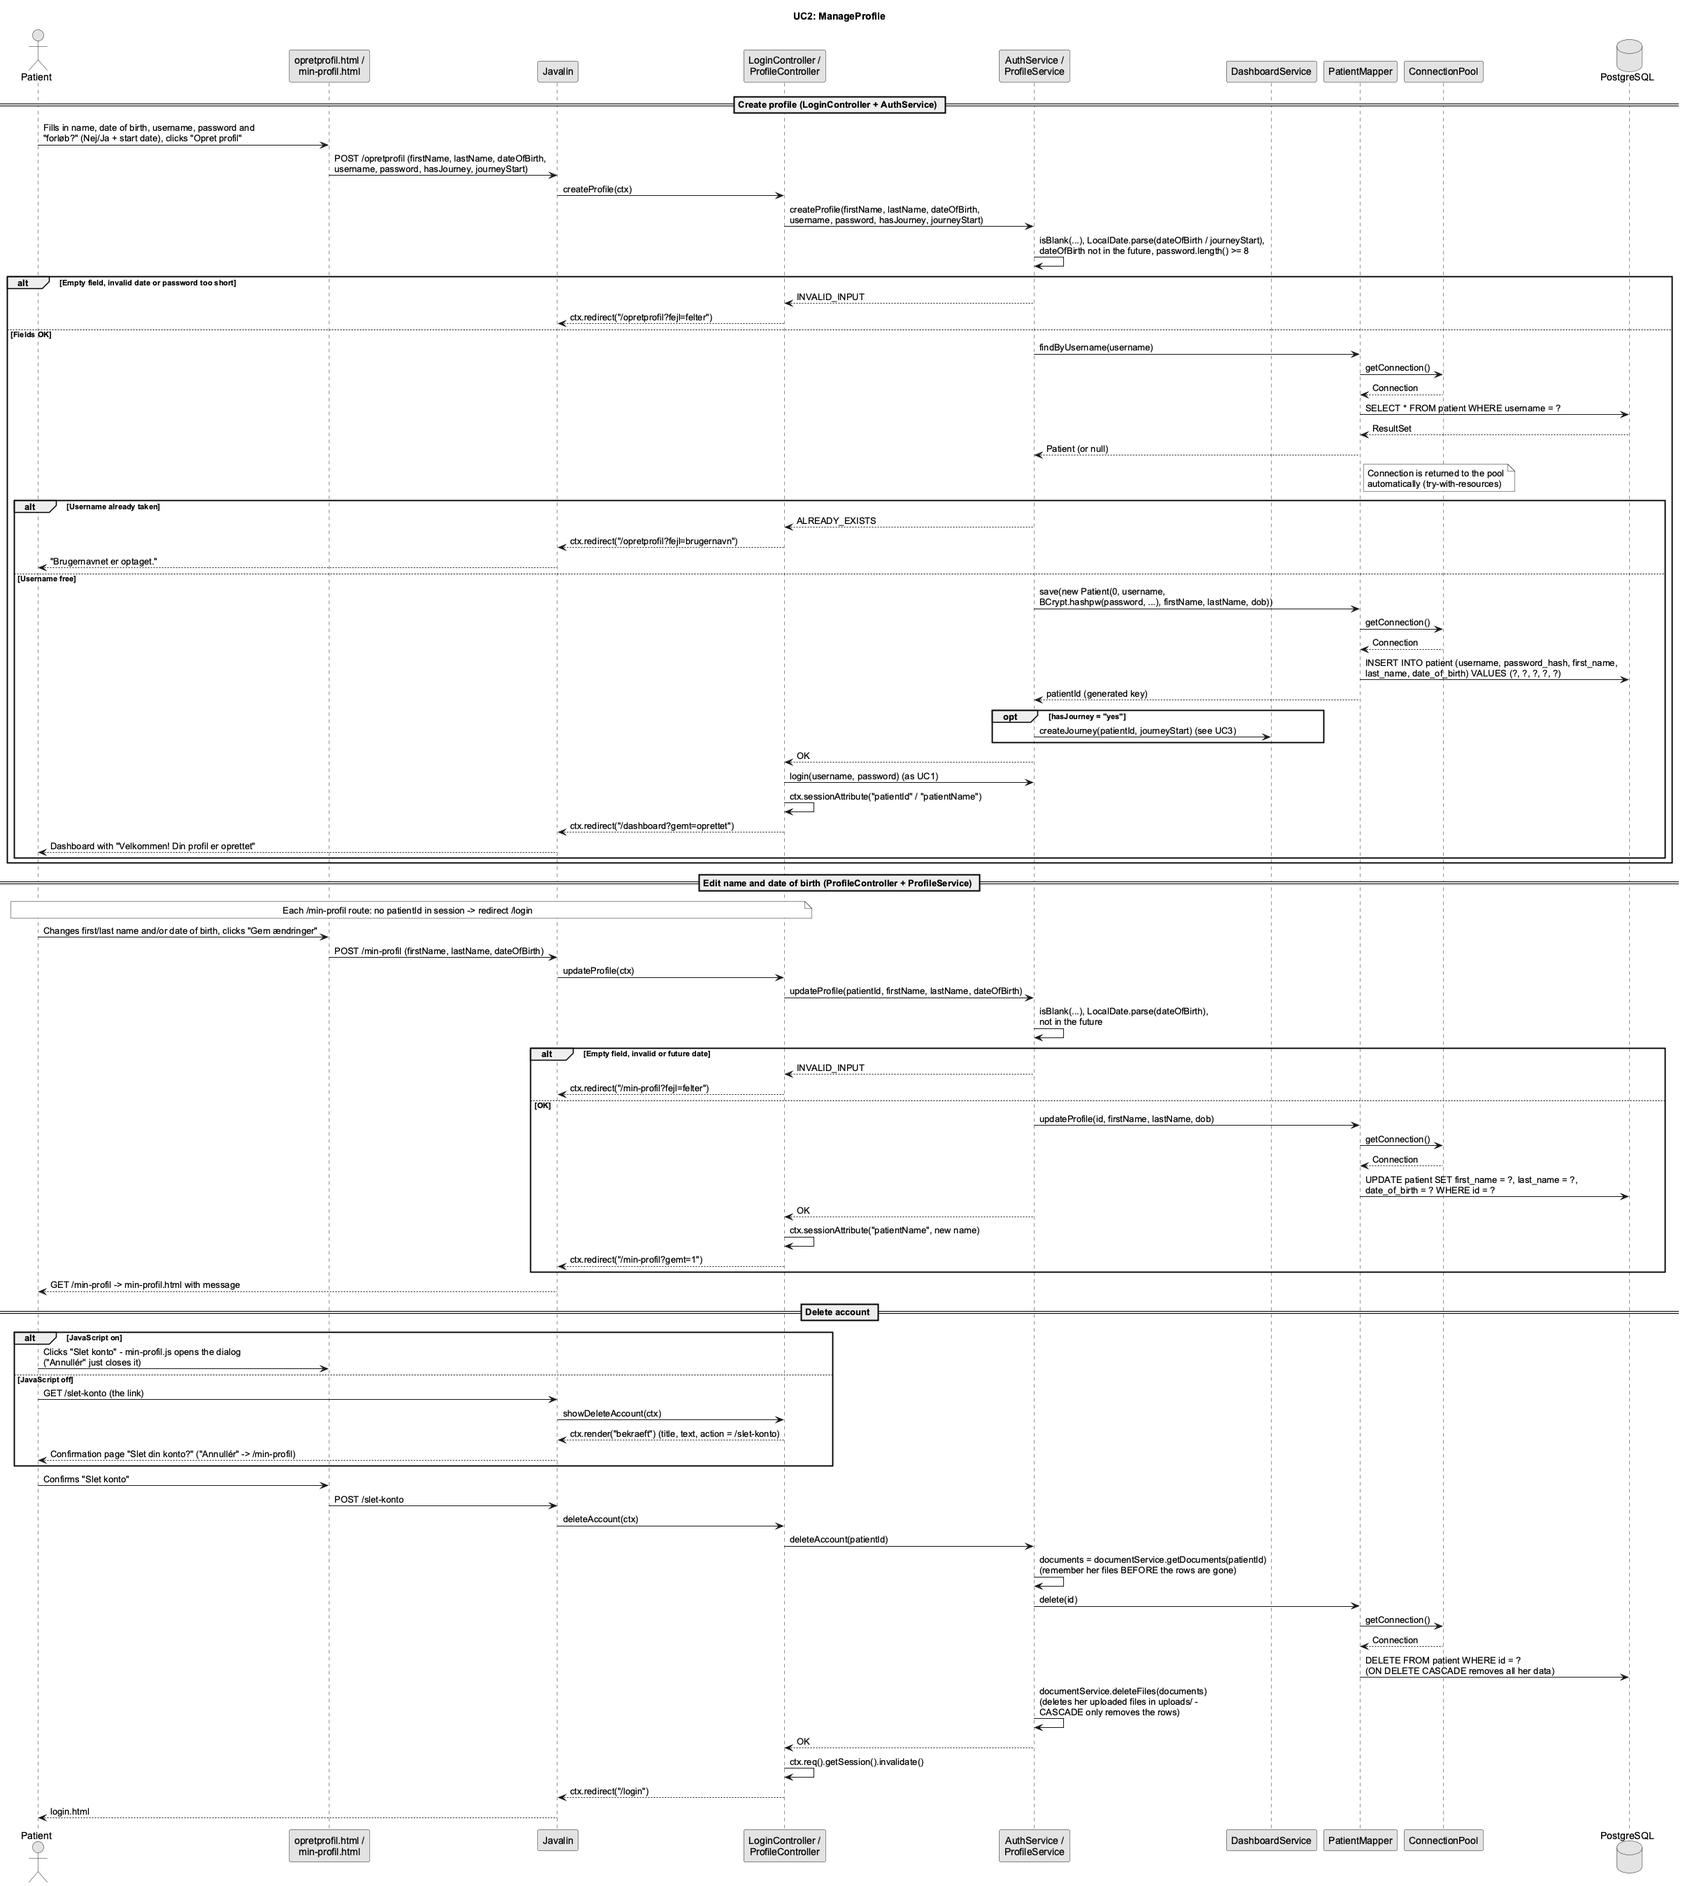
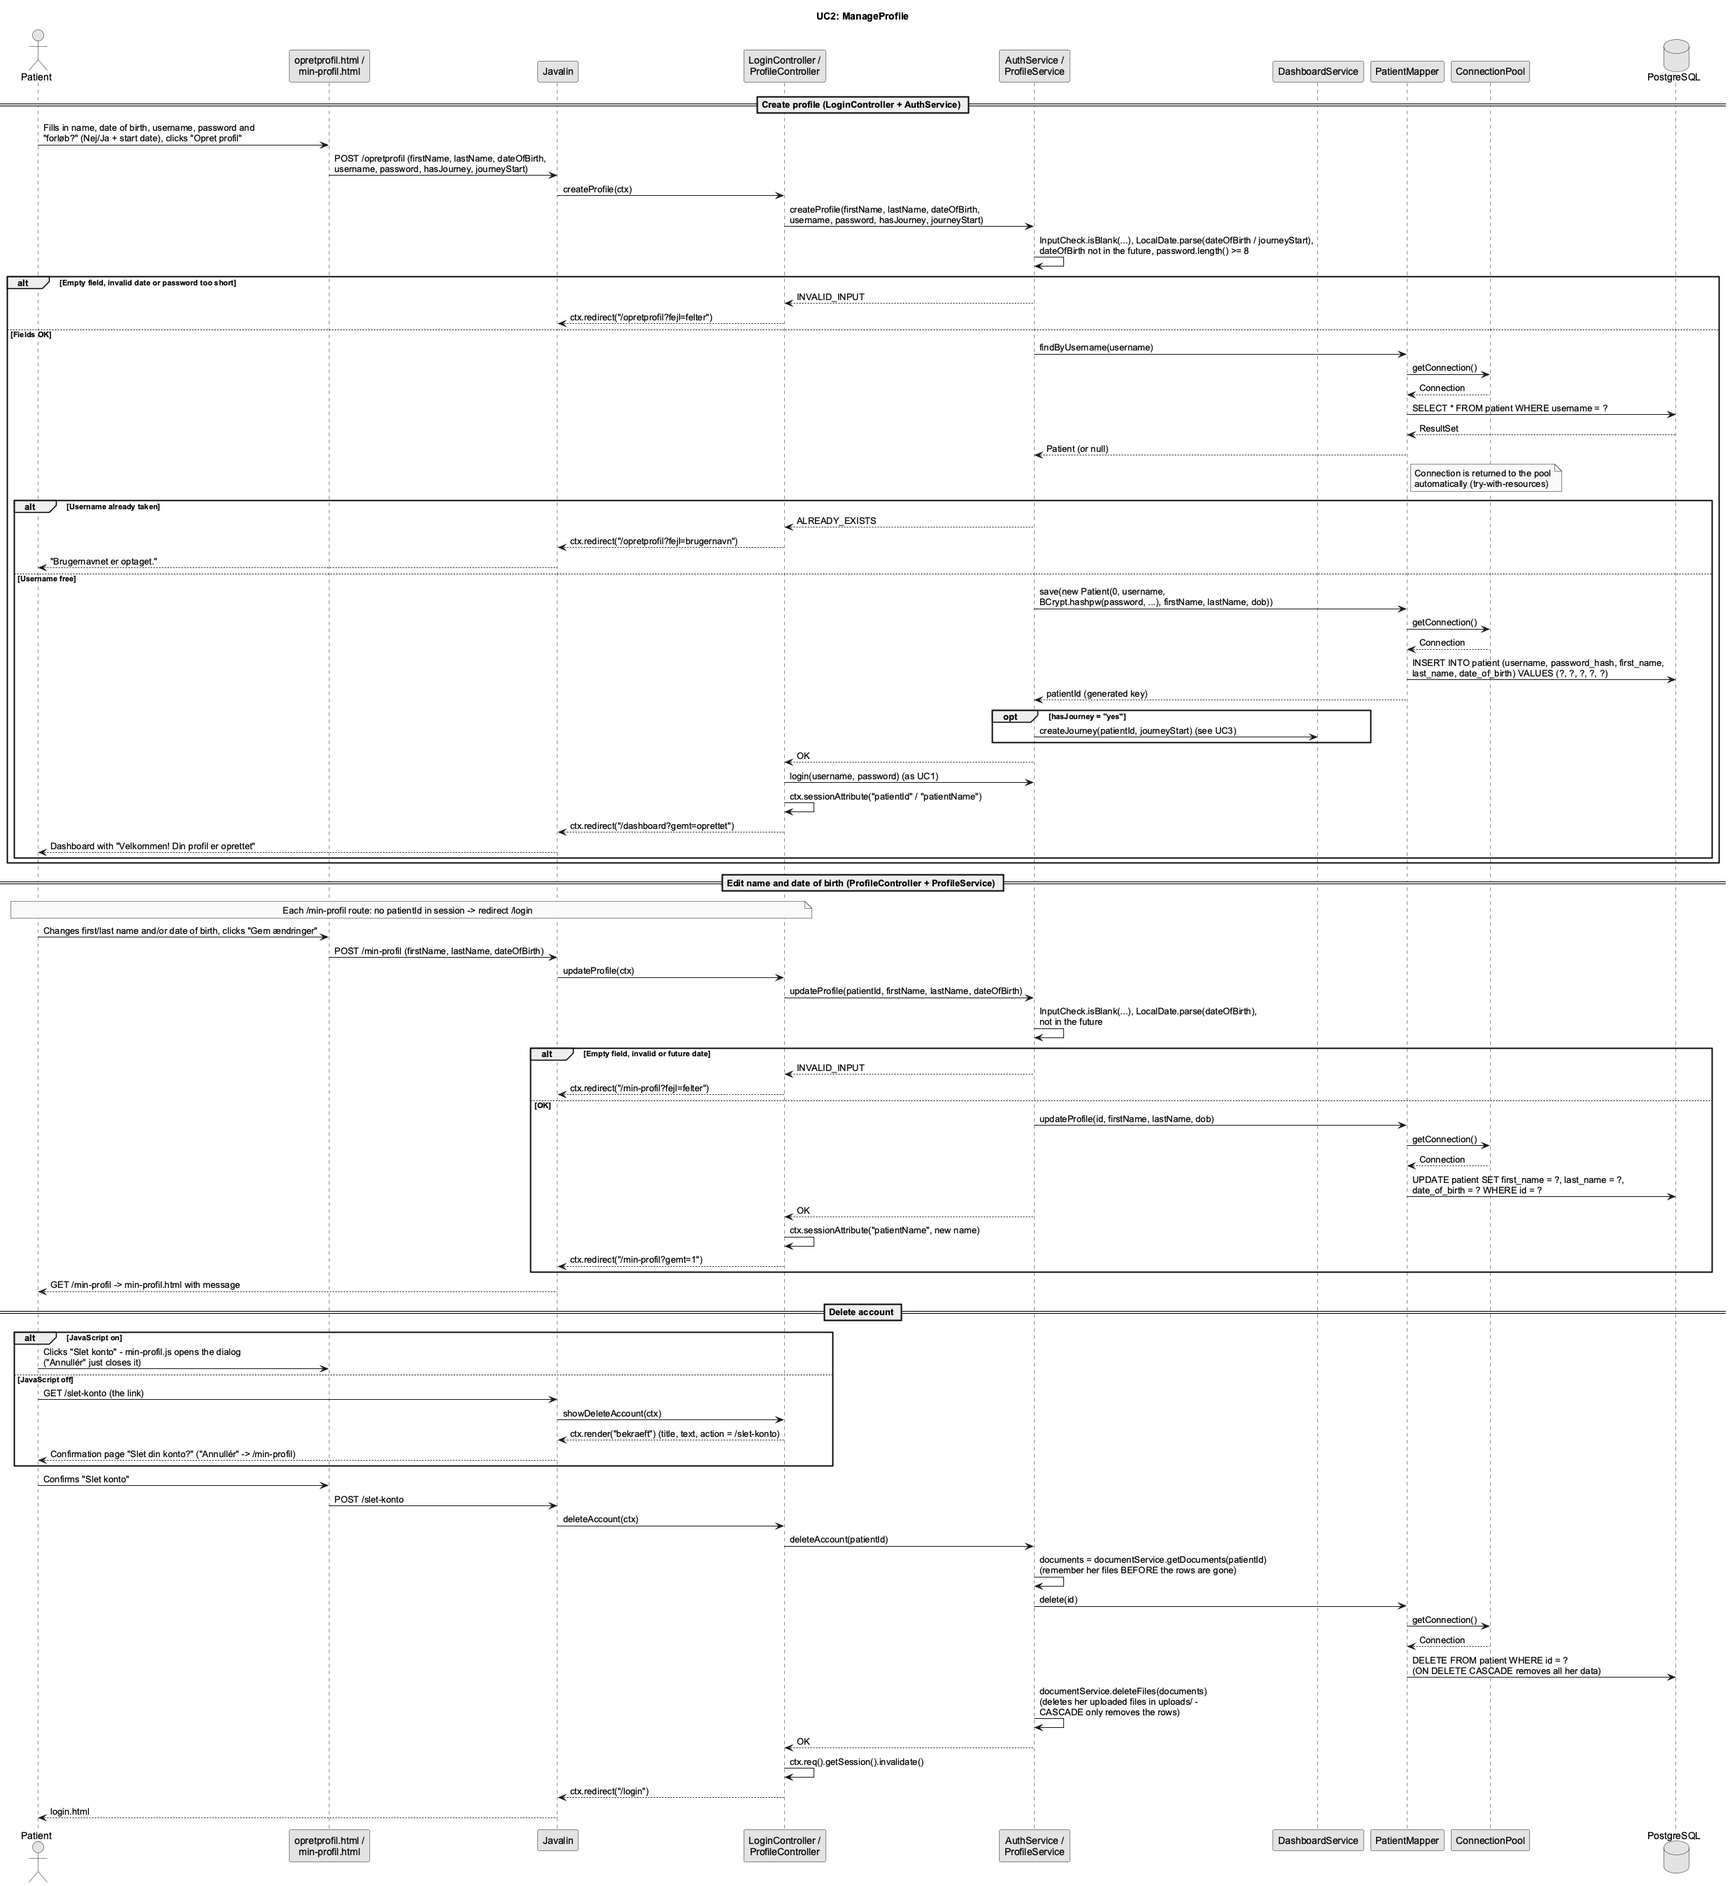
refaktorering

diff --git a/src/main/java/services/AuthService.java b/src/main/java/services/AuthService.java
@@ -29,7 +29,7 @@ public class AuthService {
     // Login: giver patientens id tilbage (det er det, sessionen skal huske) – ellers kastes UserNotFoundException
     public Patient login(String username, String password) throws UserNotFoundException {
         // regel: begge felter skal være udfyldt (BCrypt kan ikke tjekke et kodeord, der er null)
-        if (isBlank(username) || isBlank(password)) {
+        if (InputCheck.isBlank(username) || InputCheck.isBlank(password)) {
             throw new UserNotFoundException("Forkert brugernavn eller adgangskode");
         }
 
@@ -49,7 +49,7 @@ public class AuthService {
     public ServiceResult createProfile(String firstName, String lastName, String dateOfBirth, String username, String password, String hasJourney, String journeyStart) {
 
         // 0. regel: ingen tomme felter
-        if (isBlank(firstName) || isBlank(lastName) || isBlank(dateOfBirth) || isBlank(username) || isBlank(password)) {
+        if (InputCheck.isBlank(firstName) || InputCheck.isBlank(lastName) || InputCheck.isBlank(dateOfBirth) || InputCheck.isBlank(username) || InputCheck.isBlank(password)) {
             return ServiceResult.INVALID_INPUT;
         }
 
@@ -57,7 +57,7 @@ public class AuthService {
         username = username.trim();
 
         // 0a. regel: teksten skal kunne være i kolonnerne (VARCHAR(50) – se schema_postgres.sql)
-        if (isTooLong(firstName, 50) || isTooLong(lastName, 50) || isTooLong(username, 50)) {
+        if (InputCheck.isTooLong(firstName, 50) || InputCheck.isTooLong(lastName, 50) || InputCheck.isTooLong(username, 50)) {
             return ServiceResult.INVALID_INPUT;
         }
 
@@ -82,7 +82,7 @@ public class AuthService {
         //     (tjekkes HER, før vi gemmer noget – ellers ville kontoen være oprettet, men forløbet fejle)
         boolean wantsJourney = "yes".equals(hasJourney);
         if (wantsJourney) {
-            if (isBlank(journeyStart)) {
+            if (InputCheck.isBlank(journeyStart)) {
                 return ServiceResult.INVALID_INPUT;
             }
             LocalDate start;
@@ -131,15 +131,5 @@ public class AuthService {
         } catch (IllegalArgumentException | StringIndexOutOfBoundsException e) {
             return false;
         }
-    }
-
-    // hjælper: null eller kun mellemrum tæller som tomt (samme som i de andre services)
-    private boolean isBlank(String s) {
-        return s == null || s.isBlank();
-    }
-
-    // lille hjælper: længere end kolonnen i databasen (VARCHAR(max))? Så ville INSERT fejle med en 500-fejl
-    private boolean isTooLong(String s, int max) {
-        return s != null && s.length() > max;
     }
 }

diff --git a/src/main/java/services/ProfileService.java b/src/main/java/services/ProfileService.java
@@ -28,11 +28,11 @@ public class ProfileService {
     // Retter patientens navn og fødselsdato (US6b AC1)
     public ServiceResult updateProfile(int patientId, String firstName, String lastName, String dateOfBirth) {
         // 1. regel: ingen tomme felter
-        if (isBlank(firstName) || isBlank(lastName) || isBlank(dateOfBirth)) {
+        if (InputCheck.isBlank(firstName) || InputCheck.isBlank(lastName) || InputCheck.isBlank(dateOfBirth)) {
             return ServiceResult.INVALID_INPUT;
         }
         // navnene skal kunne være i kolonnerne (VARCHAR(50))
-        if (isTooLong(firstName, 50) || isTooLong(lastName, 50)) {
+        if (InputCheck.isTooLong(firstName, 50) || InputCheck.isTooLong(lastName, 50)) {
             return ServiceResult.INVALID_INPUT;
         }
 
@@ -57,7 +57,7 @@ public class ProfileService {
     // Skifter kodeord. Alle tjek giver INVALID_INPUT, så man ikke afslører hvad der var galt
     public ServiceResult changePassword(int patientId, String currentPassword, String newPassword, String repeat) {
         // 1. regel: ingen tomme felter
-        if (isBlank(currentPassword) || isBlank(newPassword) || isBlank(repeat)) {
+        if (InputCheck.isBlank(currentPassword) || InputCheck.isBlank(newPassword) || InputCheck.isBlank(repeat)) {
             return ServiceResult.INVALID_INPUT;
         }
 
@@ -103,15 +103,5 @@ public class ProfileService {
 
         // 3. gik godt
         return ServiceResult.OK;
-    }
-
-    // hjælper: null eller kun mellemrum tæller som tomt (samme som i de andre services)
-    private boolean isBlank(String s) {
-        return s == null || s.isBlank();
-    }
-
-    // lille hjælper: længere end kolonnen i databasen (VARCHAR(max))? Så ville INSERT fejle med en 500-fejl
-    private boolean isTooLong(String s, int max) {
-        return s != null && s.length() > max;
     }
 }

diff --git a/src/main/java/services/DiagnosisService.java b/src/main/java/services/DiagnosisService.java
@@ -17,16 +17,16 @@ public class DiagnosisService {
 
     public ServiceResult addDiagnosis(int patientId, String name, String description) {
         // 1. regel: en diagnose skal have et navn (serveren stoler ikke på required i HTML)
-        if (isBlank(name)) {
+        if (InputCheck.isBlank(name)) {
             return ServiceResult.INVALID_INPUT;
         }
         // navnet skal kunne være i kolonnen (VARCHAR(100))
-        if (isTooLong(name, 100)) {
+        if (InputCheck.isTooLong(name, 100)) {
             return ServiceResult.INVALID_INPUT;
         }
 
         // 2. beskrivelsen er valgfri – tom tekst gemmes som null, så databasen ikke fyldes med ""
-        String desc = isBlank(description) ? null : description.trim();
+        String desc = InputCheck.isBlank(description) ? null : description.trim();
 
         // 3. byg kortet og gem – diagnosen hænger direkte på patienten (patient_id). trim = mellemrum før/efter fjernes
         Diagnosis diagnosis = new Diagnosis(0, patientId, name.trim(), desc);
@@ -44,15 +44,5 @@ public class DiagnosisService {
     // Svar: OK · NOT_FOUND = findes ikke / ikke hendes. Samme mønster som DiaryService.deleteEntry
     public ServiceResult deleteDiagnosis(int patientId, int diagnosisId) {
         return diagnosisMapper.delete(diagnosisId, patientId) ? ServiceResult.OK : ServiceResult.NOT_FOUND;
-    }
-
-    // lille hjælper: null eller kun mellemrum tæller som tomt
-    private boolean isBlank(String s) {
-        return s == null || s.isBlank();
-    }
-
-    // lille hjælper: længere end kolonnen i databasen (VARCHAR(max))? Så ville INSERT fejle med en 500-fejl
-    private boolean isTooLong(String s, int max) {
-        return s != null && s.length() > max;
     }
 }

diff --git a/src/main/java/services/DiaryService.java b/src/main/java/services/DiaryService.java
@@ -23,11 +23,11 @@ public class DiaryService {
     // Gemmer én note på patienten
     public ServiceResult saveEntry(int patientId, String date, String title, String note) {
         // 0. regel: dato, titel og note skal være udfyldt (serveren stoler ikke på required i HTML)
-        if (isBlank(date) || isBlank(title) || isBlank(note)) {
+        if (InputCheck.isBlank(date) || InputCheck.isBlank(title) || InputCheck.isBlank(note)) {
             return ServiceResult.INVALID_INPUT;
         }
         // titlen skal kunne være i kolonnen (VARCHAR(100))
-        if (isTooLong(title, 100)) {
+        if (InputCheck.isTooLong(title, 100)) {
             return ServiceResult.INVALID_INPUT;
         }
 
@@ -55,15 +55,5 @@ public class DiaryService {
     // Svar: OK · NOT_FOUND = findes ikke / ikke hendes (så blev 0 rækker slettet)
     public ServiceResult deleteEntry(int patientId, int entryId) {
         return diaryEntryMapper.delete(entryId, patientId) ? ServiceResult.OK : ServiceResult.NOT_FOUND;
-    }
-
-    // lille hjælper: null eller kun mellemrum tæller som tomt
-    private boolean isBlank(String s) {
-        return s == null || s.isBlank();
-    }
-
-    // lille hjælper: længere end kolonnen i databasen (VARCHAR(max))? Så ville INSERT fejle med en 500-fejl
-    private boolean isTooLong(String s, int max) {
-        return s != null && s.length() > max;
     }
 }

diff --git a/src/main/java/services/DocumentService.java b/src/main/java/services/DocumentService.java
@@ -34,11 +34,11 @@ public class DocumentService {
                                         String originalFileName, InputStream fileContent, long fileSize) {
 
         // 1. regel: titel, type og fil skal være udfyldt
-        if (isBlank(title) || isBlank(type) || isBlank(originalFileName) || fileContent == null) {
+        if (InputCheck.isBlank(title) || InputCheck.isBlank(type) || InputCheck.isBlank(originalFileName) || fileContent == null) {
             return ServiceResult.INVALID_INPUT;
         }
         // titlen skal kunne være i kolonnen (VARCHAR(100))
-        if (isTooLong(title, 100)) {
+        if (InputCheck.isTooLong(title, 100)) {
             return ServiceResult.INVALID_INPUT;
         }
 
@@ -130,14 +130,5 @@ public class DocumentService {
             // filen kunne ikke slettes (fx låst) – rækken er allerede væk, så patienten ser den ikke mere
             System.err.println("Kunne ikke slette filen " + filePath + ": " + e.getMessage());
         }
-    }
-
-    private boolean isBlank(String s) {
-        return s == null || s.isBlank();
-    }
-
-    // lille hjælper: længere end kolonnen i databasen (VARCHAR(max))? Så ville INSERT fejle med en 500-fejl
-    private boolean isTooLong(String s, int max) {
-        return s != null && s.length() > max;
     }
 }

diff --git a/src/main/java/services/AppointmentService.java b/src/main/java/services/AppointmentService.java
@@ -36,11 +36,11 @@ public class AppointmentService {
     // Gemmer én aftale på patientens aktive forløb
     public ServiceResult addAppointment(int patientId, String type, String location, String date, String time) {
         // 1. regel: alle felter skal være udfyldt
-        if (isBlank(type) || isBlank(location) || isBlank(date) || isBlank(time)) {
+        if (InputCheck.isBlank(type) || InputCheck.isBlank(location) || InputCheck.isBlank(date) || InputCheck.isBlank(time)) {
             return ServiceResult.INVALID_INPUT;
         }
         // stedet skal kunne være i kolonnen (VARCHAR(100))
-        if (isTooLong(location, 100)) {
+        if (InputCheck.isTooLong(location, 100)) {
             return ServiceResult.INVALID_INPUT;
         }
 
@@ -143,15 +143,5 @@ public class AppointmentService {
         } catch (NoActiveJourneyException e) {
             return new ArrayList<>();
         }
-    }
-
-    // lille hjælper: null eller kun mellemrum tæller som tomt
-    private boolean isBlank(String s) {
-        return s == null || s.isBlank();
-    }
-
-    // lille hjælper: længere end kolonnen i databasen (VARCHAR(max))? Så ville INSERT fejle med en 500-fejl
-    private boolean isTooLong(String s, int max) {
-        return s != null && s.length() > max;
     }
 }

diff --git a/src/main/java/services/HormoneService.java b/src/main/java/services/HormoneService.java
@@ -34,7 +34,7 @@ public class HormoneService {
     // Gemmer én måling på den runde, der er i gang. En måling SKAL ligge på en runde (round_id i databasen).
     public ServiceResult saveLog(int patientId, String hormone, String value, String unit, String date) {
         // 0. regel: alle felter skal være udfyldt (serveren stoler ikke på required i HTML)
-        if (isBlank(hormone) || isBlank(value) || isBlank(unit) || isBlank(date)) {
+        if (InputCheck.isBlank(hormone) || InputCheck.isBlank(value) || InputCheck.isBlank(unit) || InputCheck.isBlank(date)) {
             return ServiceResult.INVALID_INPUT;
         }
 
@@ -179,10 +179,5 @@ public class HormoneService {
             curve.setAverage(average, Math.round(averageY));
         }
         return curve;
-    }
-
-    // lille hjælper: null eller kun mellemrum tæller som tomt
-    private boolean isBlank(String s) {
-        return s == null || s.isBlank();
     }
 }

diff --git a/src/main/java/services/MedicationService.java b/src/main/java/services/MedicationService.java
@@ -37,7 +37,7 @@ public class MedicationService {
     public ServiceResult logDose(int patientId, String medicationName, String dose, String date, String time, boolean taken) {
 
         // 1. regel: alle felter skal være udfyldt
-        if (isBlank(medicationName) || isBlank(dose) || isBlank(date) || isBlank(time)) {
+        if (InputCheck.isBlank(medicationName) || InputCheck.isBlank(dose) || InputCheck.isBlank(date) || InputCheck.isBlank(time)) {
             return ServiceResult.INVALID_INPUT;
         }
 
@@ -161,11 +161,4 @@ public class MedicationService {
             return new ArrayList<>();
         }
     }
-
-    // lille hjælper: null eller kun mellemrum tæller som tomt
-    private boolean isBlank(String s) {
-        return s == null || s.isBlank();
-    }
-
-
 }

diff --git a/src/main/java/services/InputCheck.java b/src/main/java/services/InputCheck.java
@@ -1,0 +1,20 @@
+package services;
+
+// Fælles tjek af tekst fra formularerne. Stod før som en kopi i hver service – nu ét sted (SRP).
+// Kun static metoder: kaldes direkte på klassen, fx InputCheck.isBlank(name), uden new
+public class InputCheck {
+
+    // ingen objekter af klassen – den er kun en samling hjælpemetoder
+    private InputCheck() {
+    }
+
+    // null eller kun mellemrum tæller som tomt
+    public static boolean isBlank(String s) {
+        return s == null || s.isBlank();
+    }
+
+    // længere end kolonnen i databasen (VARCHAR(max))? Så ville INSERT fejle med en 500-fejl
+    public static boolean isTooLong(String s, int max) {
+        return s != null && s.length() > max;
+    }
+}

diff --git a/doc/dynamic/Tasks.md b/doc/dynamic/Tasks.md
@@ -148,6 +148,9 @@
 - [x]  Hormonkurven tegner kun målinger i samme enhed som den nyeste – målinger i en anden enhed (fx fra et udenlandsk laboratorie) står i listen, og siden skriver "X målinger i en anden enhed … er ikke med på kurven" (HormoneService.getCurve, HormoneServiceTest)
 - [x]  Afsluttede forløb kan ses: rundehistorik viser alle forløb med deres runder (FertilityJourneyMapper.findByPatient, RoundService.getRoundsPerJourney); aftaler kan vises for et valgt forløb (`/aftaler?forloeb=id`) og tidslinjen for en valgt runde (`/tidslinje?runde=id`) – kun patientens egne (RoundServiceTest, AppointmentServiceTest, TimelineServiceTest)
 
+## Refaktorering (12. okt 2026)
+- [x]  `isBlank` og `isTooLong` stod som private kopier i 8 services → samlet i hjælpeklassen `services/InputCheck` med `static` metoder (SRP: én ting ét sted). Kald: `InputCheck.isBlank(name)`. Klassediagram 4c-oversigt og UC2 opdateret. Alle 256 tests grønne bagefter
+
 ## Rettelser efter gennemgang (9. okt 2026)
 - [x]  Findes der allerede et aktivt forløb, viser dashboardet "Du har allerede et aktivt forløb" i stedet for "Dit forløb er oprettet ✓" (DashboardController, besked.html)
 - [x]  Et forløb kan ikke starte i fremtiden – hverken på dashboardet eller ved opret profil (DashboardService, AuthService, `max` på datofeltet, DashboardServiceTest)
